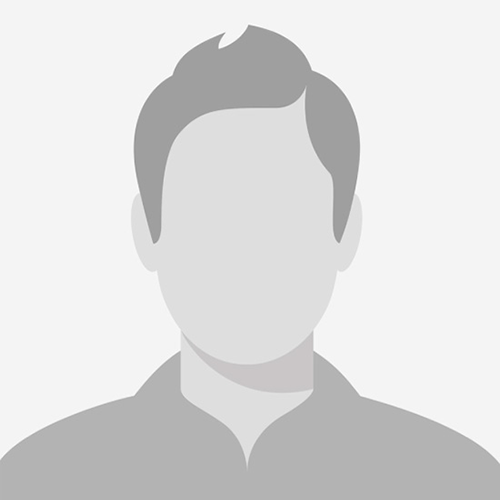
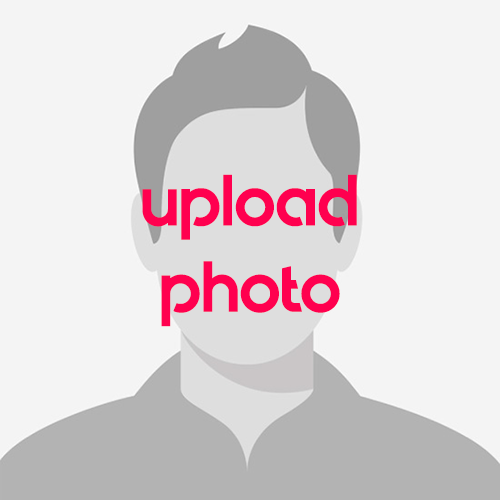
v.1.1.0 feedback toggle and photo upload button

Changed region(s): [[0.27, 0.33, 0.72, 0.48], [0.3, 0.51, 0.69, 0.66]]

diff --git a/resources/js/client/clientadd.js b/resources/js/client/clientadd.js
@@ -19,16 +19,17 @@ var ClientAdd = (function() {
 /*******************************************
  * Global Variables
 *******************************************/
-var clientAddButton           = $('main .clientaddbutton');
-var clientAddModal            = $('.clientaddmodal');
-var clientAddForm             = $('.clientaddmodal .clientaddform');
-var clientAddFormFirstname    = $('.clientaddmodal .clientaddform .firstname');
-var clientAddFormLastname     = $('.clientaddmodal .clientaddform .lastname');
-var clientAddFormPhone        = $('.clientaddmodal .clientaddform .phone');
-var clientAddFormNotes        = $('.clientaddmodal .clientaddform .notes');
-var clientAddFormSubmit       = $('.clientaddmodal .clientaddsubmit');
-var clientAddModalCloseButton = $('.clientaddmodal .closemodal');
-var clientAddModalLoadingGif  = $('.clientaddmodal .savingclient');
+var clientAddButton             = $('main .clientaddbutton');
+var clientAddModal              = $('.clientaddmodal');
+var clientAddForm               = $('.clientaddmodal .clientaddform');
+var clientAddFormFirstname      = $('.clientaddmodal .clientaddform .firstname');
+var clientAddFormLastname       = $('.clientaddmodal .clientaddform .lastname');
+var clientAddFormPhone          = $('.clientaddmodal .clientaddform .phone');
+var clientAddFormFeedbackToggle = $('.clientaddmodal .clientaddform .feedbacktoggle');
+var clientAddFormNotes          = $('.clientaddmodal .clientaddform .notes');
+var clientAddFormSubmit         = $('.clientaddmodal .clientaddsubmit');
+var clientAddModalCloseButton   = $('.clientaddmodal .closemodal');
+var clientAddModalLoadingGif    = $('.clientaddmodal .savingclient');
 
 
 //----------------------------------------------------------------
@@ -83,6 +84,17 @@ $(document).keypress(":input:not(textarea)", function(event) {
 //---------------------------------------------------------------/
 
 /*******************************************
+ * Initialize the Feedback Toggle
+*******************************************/
+function initializeFeedbackToggle() {
+    clientAddFormFeedbackToggle.bootstrapToggle({
+      on: 'Yes',
+      off: 'No',
+      style: 'hairbrain-toggle'
+    });
+}
+
+/*******************************************
  * Show Loading Animation
 *******************************************/
 function showLoading() {
@@ -106,11 +118,18 @@ function hideLoading() {
  * Empty Client Add Form on Close
 *******************************************/
 function emptyAddForm() {
-    $('.clientaddmodal .clientaddform input').each(function() {
-        $(this).val('');
-    })
+    // Reset inputs.
+    $('.clientaddmodal .clientaddform input').each(function() { $(this).val('');})
+    // Reset Notes.
     clientAddFormNotes.text('');
+    // Reset PhotoUpload preview. 
     $('.clientaddmodal .clientaddform .photothumb').attr('src', '/app/img/photoholder.png');
+    // Reset Feedback Toggle.
+    clientAddFormFeedbackToggle.bootstrapToggle('off');
+    // Clear Photoupload cache of image. 
+    var h = PhotoUpload.getResizedImage();
+    // Clear Photoupload cache of avatar.
+    var r = PhotoUpload.getResizedAvatar();
 }
 
 
@@ -124,16 +143,26 @@ function emptyAddForm() {
  * Add Client Form -> POST
 *******************************************/
 function clientAddFormAJAX() {
+
+    // Create new form. 
     var form = new FormData();
+
+    // Add form values. 
     form.append("firstname", clientAddFormFirstname.val());
     form.append("lastname", clientAddFormLastname.val());
     form.append("phone", clientAddFormPhone.val());
     form.append("notes", clientAddFormNotes.text());
     form.append("name", name);
 
+    // If feedback request is made or not. 
+    if(clientAddFormFeedbackToggle.val() === "on" ) { form.append("feedback", true); } 
+    else { form.append("feedback", false); }
+
+    // Assign Resized Avatar and Photo. 
     var resizedPhoto  = PhotoUpload.getResizedImage();
     var resizedAvatar = PhotoUpload.getResizedAvatar(); 
 
+    // Append values to form. 
     if (resizedPhoto)  { form.append("photo",  resizedPhoto);  }
     if (resizedAvatar) { form.append("avatar", resizedAvatar); }
 
@@ -188,7 +217,8 @@ function clientAddFormAJAX() {
 *******************************************/
     var Main = (function() {  
 
-        // Main
+        // Initialize bootstrap toggle for feeback toggle. 
+        initializeFeedbackToggle();
 
     })();
 

diff --git a/resources/sass/client/clientadd.scss b/resources/sass/client/clientadd.scss
@@ -44,17 +44,58 @@
             margin-bottom: 10px;
         }
 
+        .feedbackbox {
+            display: block;
+            overflow: hidden;
+            padding: 15px 0 5px 0;
+            border-top: 1px solid #ccc;
+            margin: 20px 0 10px 0;
+
+            .hairbrain-toggle {
+                float: left;
+                border: 1px solid #999;
+                
+                .toggle-off {
+                    color: #fff;
+                    background: #ff2353;
+                    border: #ff2353;
+                }
+            }
+
+            .fbtext {
+                font-size: 15px;
+                line-height: 32px;
+                font-family: hb-regular;
+            }
+        }
+        .feebackinfotext {
+            display: block;
+            width: 100%;
+            font-size: 11px;
+            color: #777;
+            margin-bottom: 15px;
+            text-align: left;
+        }
+
+        .notesheader {
+            font-size: 15px;
+            line-height: 20px;
+            font-family: hb-regular;      
+            float: left;
+        }
         // CLIENT ADD FORM TEXTAREA //
         .notes {
+            width: 100%;
             white-space: pre;
             text-align: left;
             font-size: 15px;
             border: 1px solid #CCC;
-            overflow: hidden;
+            overflow: auto;
             min-height: 100px;
-            padding: 5px;
-            margin-top: 15px;   
-            word-wrap: normal;
+            padding: 5px; 
+            word-wrap: break-word;
+            overflow-wrap: break-word;
+            white-space: normal;
         }
     }
 

diff --git a/public/clients/index.html b/public/clients/index.html
@@ -145,7 +145,16 @@
                             <input class="lastname" placeholder="Last name" type="text" required>
                             <input class="phone" placeholder="Phone #" type="tel" data-mask="1 (000) 000-0000" required>
                             <div class="photowidget"></div>
-                            <div class="notes" placeholder="Notes" type="text" contenteditable="true"></div>
+                            <div class="feedbackbox">
+                                <input type="checkbox" class="feedbacktoggle">
+                                <span class="fbtext">Send client feedback SMS?</span>
+                            </div>
+                            <div class="feebackinfotext">
+                                * If you select yes, hairbrain will send a text message to the phone number listed above, 
+                                asking the client to rate their visit. This rating can be viewed in your profile. 
+                            </div>
+                            <span class="notesheader">Notes:</span>
+                            <div class="notes" type="text" contenteditable="true"></div>
                         </form>
 
                         <!-- SAVING ICON -->

diff --git a/resources/js/client/clientedit.js b/resources/js/client/clientedit.js
@@ -34,6 +34,7 @@ var clientAddForm              = $('.clientaddmodal .clientaddform');
 var clientAddFormFirstname     = $('.clientaddmodal .clientaddform .firstname');
 var clientAddFormLastname      = $('.clientaddmodal .clientaddform .lastname');
 var clientAddFormPhone         = $('.clientaddmodal .clientaddform .phone');
+var clientAddFormFeedbackToggle = $('.clientaddmodal .clientaddform .feedbacktoggle');
 var clientAddFormNotes         = $('.clientaddmodal .clientaddform .notes');
 
 var clientAddFormSubmit        = $('.clientaddmodal .clientaddsubmit');
@@ -138,6 +139,10 @@ function clientEditFormAJAX() {
     form.append("lastname", clientAddFormLastname.val());
     form.append("phone", clientAddFormPhone.val());
     form.append("notes", clientAddFormNotes.text());
+
+    // If feedback request is made or not. 
+    if(clientAddFormFeedbackToggle.val() === "on" ) { form.append("feedback", true); } 
+    else { form.append("feedback", false); }
 
     var resizedPhoto  = PhotoUpload.getResizedImage();
     var resizedAvatar = PhotoUpload.getResizedAvatar(); 

diff --git a/gulpfile.js b/gulpfile.js
@@ -397,6 +397,7 @@ gulp.task('vendor-css', function () {
         'node_modules/font-awesome/css/font-awesome.min.css',
         'node_modules/normalize-css/normalize.css',
         'node_modules/animate.css/animate.min.css',
+        'node_modules/bootstrap-toggle/css/bootstrap-toggle.min.css',
         'resources/sass/universal/base.scss'
         ])
     .pipe(concat('vendor.css'))
@@ -412,6 +413,7 @@ gulp.task('vendor-js', function() {
         'node_modules/jquery.cookie/jquery.cookie.js',
         'node_modules/jquery-validation-dist/dist/jquery.validate.js',
         'node_modules/jquery-mask-plugin/dist/jquery.mask.min.js',
+        'node_modules/bootstrap-toggle/js/bootstrap-toggle.min.js',
         'resources/js/universal/images/resize.js',
         'resources/js/universal/google/analytics.js',
         'resources/js/universal/api/' + (gutil.env.api ? gutil.env.api : 'test') + 'api.js'

diff --git a/resources/js/client/stylistprofile.js b/resources/js/client/stylistprofile.js
@@ -19,8 +19,8 @@ var StylistProfile = (function() {
 /*******************************************
  * Global Variables
 *******************************************/
-var stylistModal   = $('.stylistmodal');
-var stylistProfile = $('.stylistprofile');
+var stylistModal         = $('.stylistmodal');
+var stylistProfile       = $('.stylistprofile');
 
 
 //----------------------------------------------------------------
@@ -77,6 +77,7 @@ function populateStylistProfile(req) {
     '<div class="ratingscontainer">Fetching Rating<img src="/app/img/loading.gif"></div>');
 
     $('.stylistprofile .avatar').css('background', 'url('+apiurl+'user/avatar/'+userid+'?j='+x+') no-repeat center');
+    
 }
 
 function populateStylistRating(req) {

diff --git a/resources/sass/client/stylistprofile.scss b/resources/sass/client/stylistprofile.scss
@@ -19,12 +19,13 @@
 
         // STYLIST AVATAR //
         .avatar {
-            height: 100px;
-            width: 100px;
+            height: 75px;
+            width: 75px;
             display: block;
             margin: 5px auto;
-            background-size: contain !important;
+            background-size: cover !important;
             border-radius: 50%;
+            border: 1px solid #000;
         }
 
         .name {
